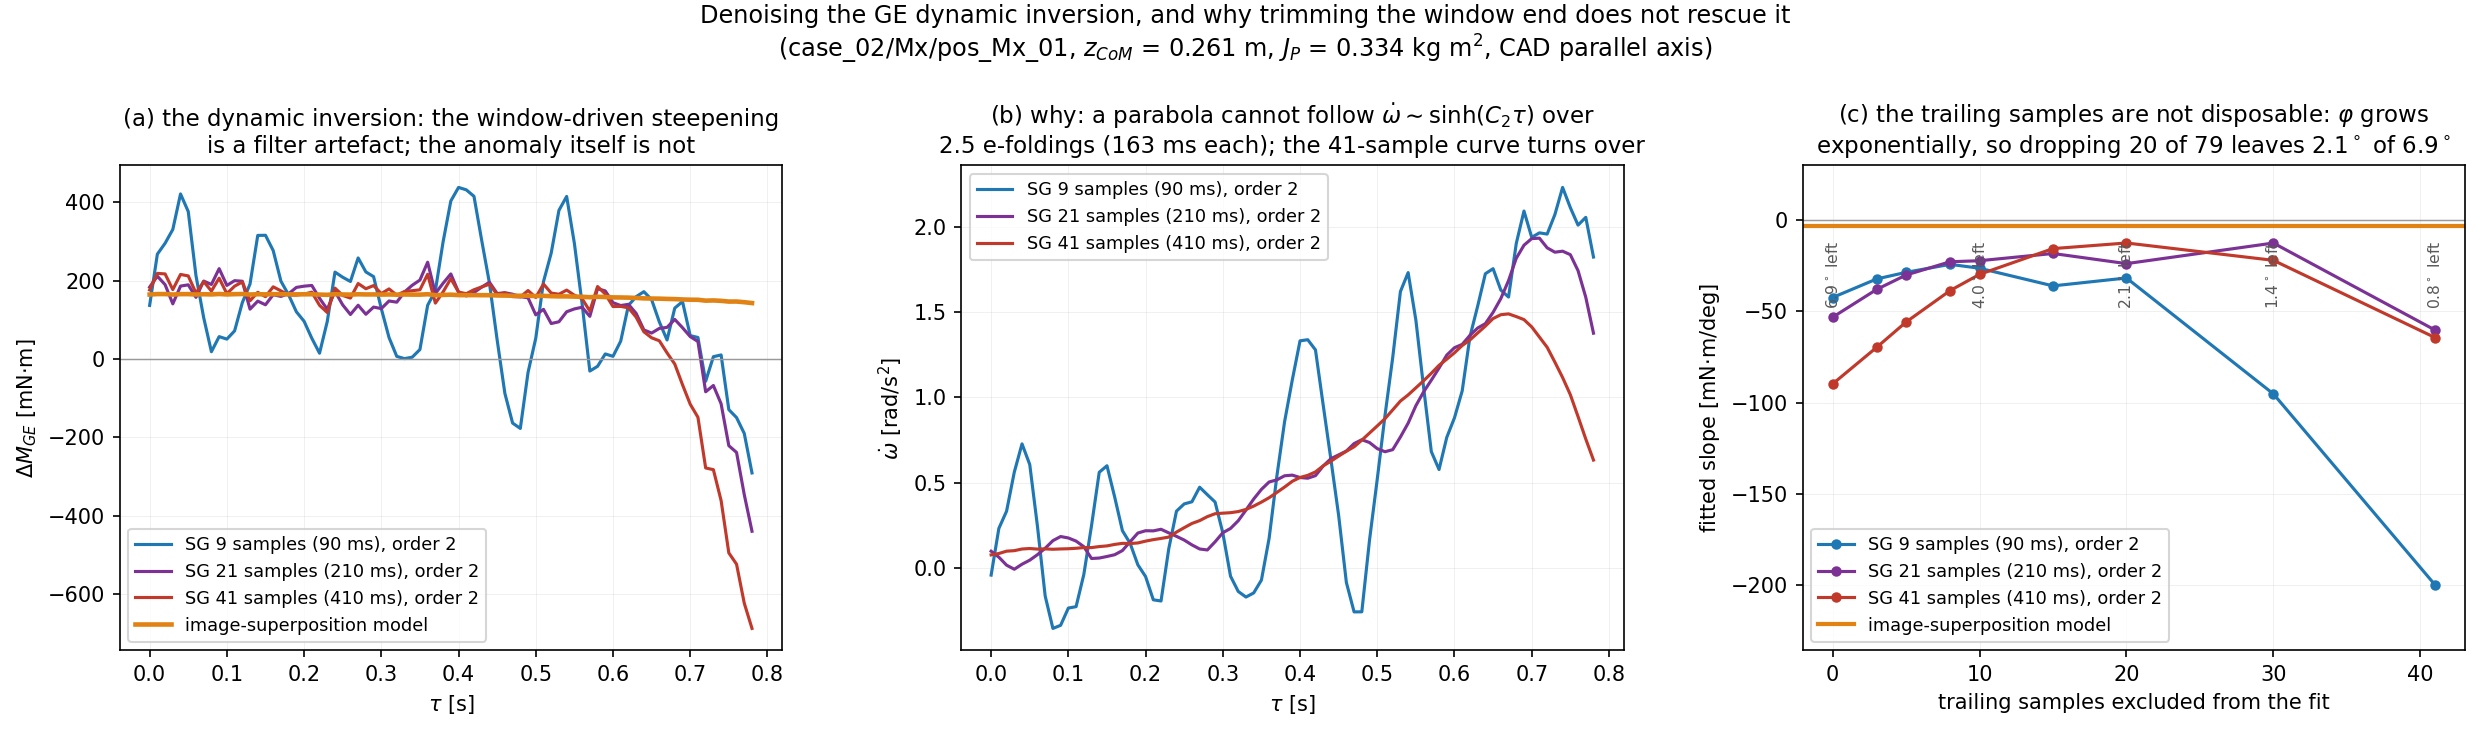
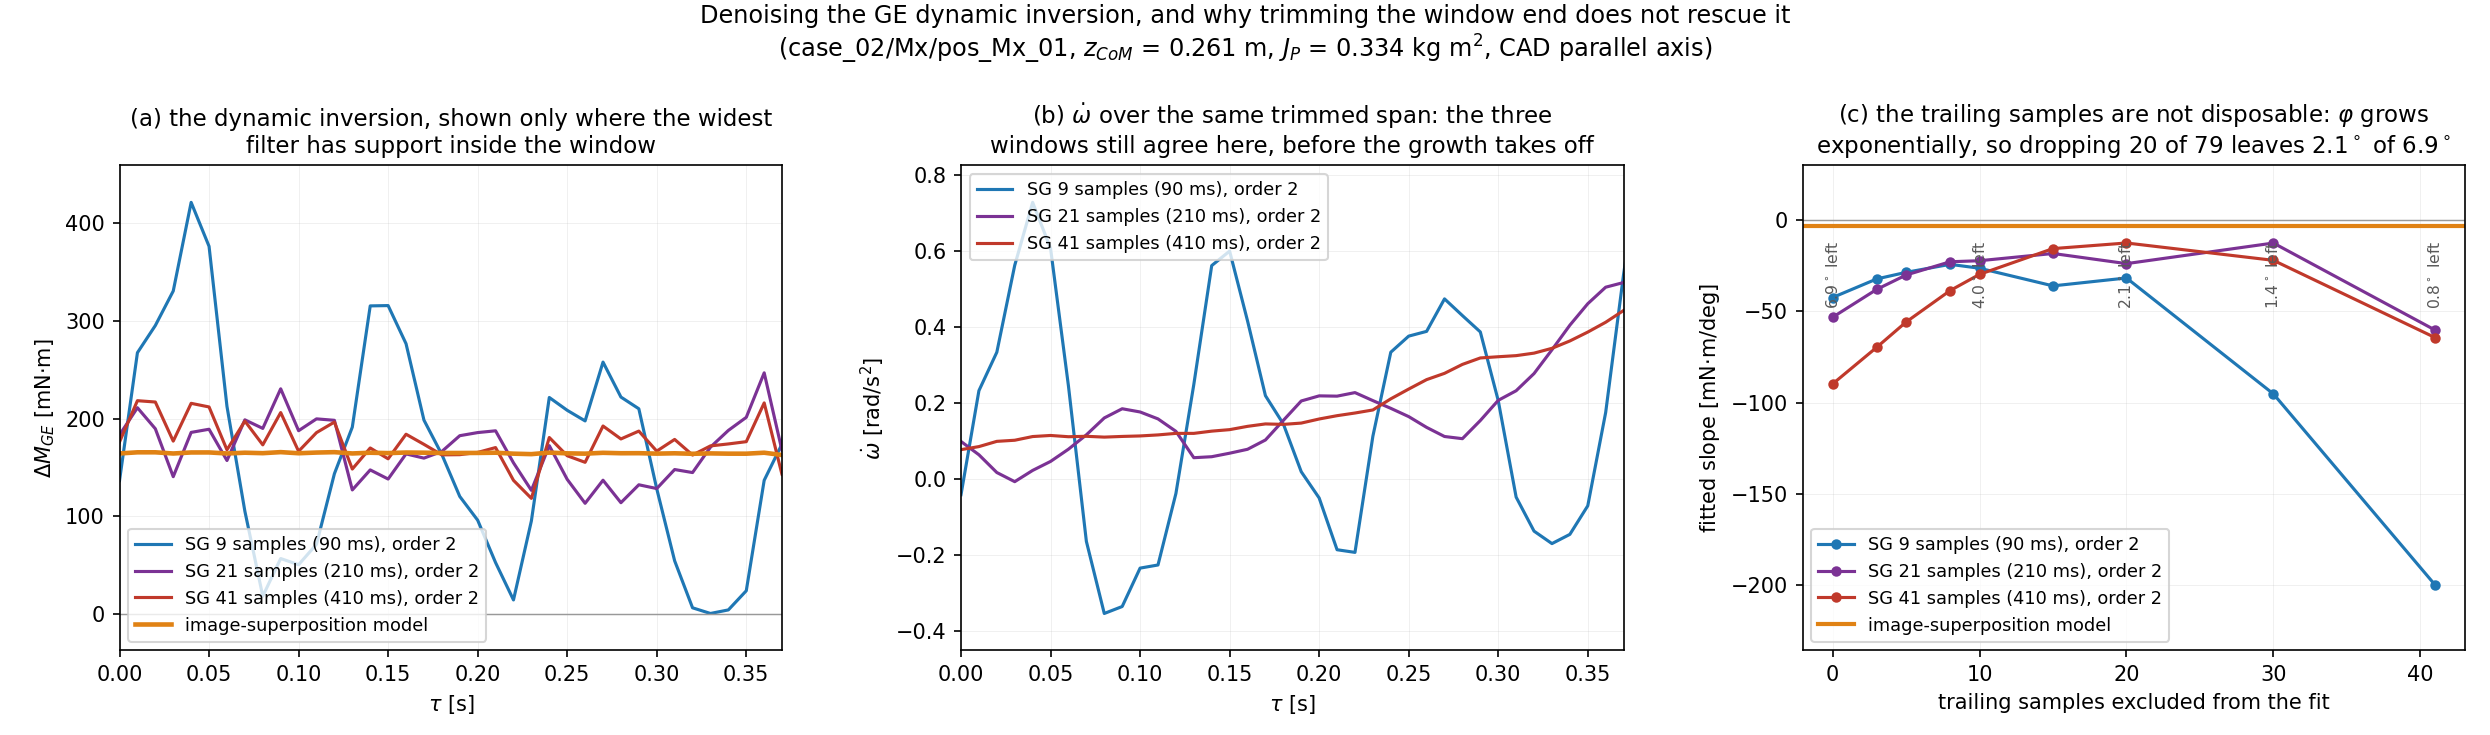
Trim panels (a) and (b) to one filter length before the window end
Display-only trim (--trim-end, default 41 samples = 0.41 s) so the
plotted span is one where even the widest filter draws entirely on
excitation-window data; the fits and panel (c) still use the whole
window.  Within that span the 21- and 41-sample curves sit on the
model line, but phi stays below 0.8 deg there, so what the trimmed
view shows is the intercept -- the static balance -- rather than
evidence about the attitude dependence, which lives entirely in the
trimmed-away tail.

Claude-Session: https://claude.ai/code/session_01BM6bcsm1ZtLtgegEeuFDVS

diff --git a/analysis/ge_savgol_overlay.py b/analysis/ge_savgol_overlay.py
@@ -48,8 +48,19 @@ there the smooth curve is DISCARDED and only the residue above f_c is
 kept, so distorting it errs safe; here the smooth curve IS the
 measurement.
 
+Panels (a) and (b) are DISPLAYED only up to one full filter length
+(41 samples, 0.41 s) before the window end, so the reader sees the
+span where even the widest filter draws entirely on excitation-window
+data; --trim-end changes it.  The fits and panel (c) always use the
+whole window.  Read that trimmed span carefully: with phi below
+0.8 deg there, the agreement it shows is the INTERCEPT -- the static
+balance, which the static check already establishes -- and not
+evidence about the attitude dependence, which only exists in the part
+that has been trimmed away.
+
 Usage: python analysis/ge_savgol_overlay.py [out.png]
        [--dir DataSet/exp/case_02/Mx] [--bag pos_Mx_01] [--z-com 0.261]
+       [--trim-end 0.41] [--jp-mode parallel]
 """
 import argparse
 import contextlib
@@ -89,6 +100,11 @@ def main():
     p.add_argument('--dir', default='DataSet/exp/case_02/Mx')
     p.add_argument('--bag', default=None)
     p.add_argument('--z-com', type=float, default=0.261)
+    p.add_argument('--trim-end', type=float, default=None,
+                   help="seconds trimmed off the END of panels (a) and (b), "
+                        "display only -- the fits and panel (c) always use "
+                        "the whole window.  Default: one full 41-sample "
+                        "filter length (0.41 s).")
     p.add_argument('--jp-mode', choices=['parallel', 'identity'],
                    default='parallel',
                    help="parallel: J_COM + m(z^2 + l_p^2), the CAD "
@@ -151,7 +167,7 @@ def main():
     print(f"  J_P = {j_p:.4f} kg m^2 ({a_.jp_mode});  for reference: "
           f"parallel axis {j_parallel(axis, a_.z_com, MASS_KG[case]):.4f}, "
           f"identity W z/C2^2 {W*a_.z_com/c2**2:.4f}\n")
-    a3_slopes = []
+    a3_slopes, vis_a1, vis_a2 = [], [], []
     print(f"  {'w':>4}{'ord':>5}{'[ms]':>7}{'e-fold':>9}{'f_c~[Hz]':>10}"
           f"{'|om_dot|max':>13}{'slope':>10}{'at phi=0':>10}")
     for w, p_, c, ls in VARIANTS:
@@ -162,6 +178,8 @@ def main():
         lab = (f'SG {w} samples ({1e3*w*dt:.0f} ms), order {p_}')
         a1.plot(tau, 1e3 * ge_dyn, ls, color=c, lw=1.5, label=lab)
         a2.plot(tau, od, ls, color=c, lw=1.5, label=lab)
+        vis_a1.append(1e3 * ge_dyn)
+        vis_a2.append(od)
         print(f"  {w:4d}{p_:5d}{1e3*w*dt:7.0f}{w*dt*c2:9.2f}{2.0/(w*dt):10.1f}"
               f"{np.abs(od).max():13.2f}"
               f"{1e3*sd*np.pi/180:10.1f}{1e3*id_:10.1f}")
@@ -179,21 +197,31 @@ def main():
 
     a1.plot(tau, 1e3 * ge_mod, '-', color='#e08214', lw=2.2,
             label='image-superposition model')
+    vis_a1.append(1e3 * ge_mod)
     a1.axhline(0, color='0.6', lw=0.7)
+
+    # display trim: keep only where the widest filter's support lies
+    # inside the excitation window (fits are unaffected)
+    trim = 41 * dt if a_.trim_end is None else a_.trim_end
+    t_cut = max(tau[-1] - trim, 3 * dt)
+    vis = tau <= t_cut
+    for ax_, series in ((a1, vis_a1), (a2, vis_a2)):
+        ax_.set_xlim(0, t_cut)
+        v = np.concatenate([np.asarray(y)[vis] for y in series])
+        pad = 0.09 * (v.max() - v.min())
+        ax_.set_ylim(v.min() - pad, v.max() + pad)
     a1.set_xlabel(r'$\tau$ [s]', fontsize=10)
     a1.set_ylabel(r'$\Delta M_{GE}$ [mN$\cdot$m]', fontsize=10)
-    a1.set_title('(a) the dynamic inversion: the window-driven steepening\n'
-                 'is a filter artefact; the anomaly itself is not',
-                 fontsize=11)
+    a1.set_title('(a) the dynamic inversion, shown only where the widest\n'
+                 'filter has support inside the window', fontsize=11)
     a1.legend(fontsize=8.5, loc='lower left')
     a1.grid(alpha=0.22, lw=0.4)
 
     a2.set_xlabel(r'$\tau$ [s]', fontsize=10)
     a2.set_ylabel(r'$\dot\omega$ [rad/s$^2$]', fontsize=10)
-    a2.set_title(r'(b) why: a parabola cannot follow '
-                 r'$\dot\omega\sim\sinh(C_2\tau)$ over' '\n'
-                 f'{41*dt*c2:.1f} e-foldings (163 ms each); the '
-                 '41-sample curve turns over', fontsize=11)
+    a2.set_title(r'(b) $\dot\omega$ over the same trimmed span: the three'
+                 '\nwindows still agree here, before the growth takes off',
+                 fontsize=11)
     a2.legend(fontsize=8.5, loc='upper left')
     a2.grid(alpha=0.22, lw=0.4)
 
